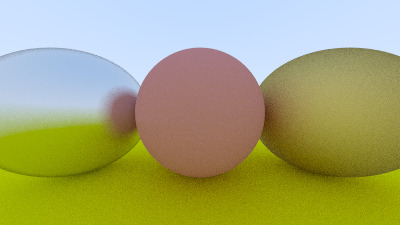
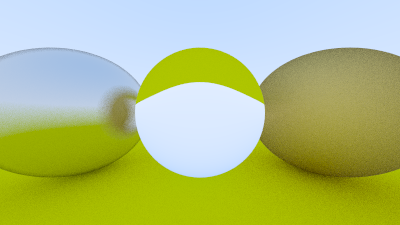
dielectrics

diff --git a/src/material.rs b/src/material.rs
@@ -72,12 +72,40 @@ impl Material for Metal {
             reflected + self.fuzz * Vec3::rand_unit(),
         );
         if Vec3::dot(&scattered.direction(), hit_result.normal()) < 0.0 {
-            return None
+            return None;
         }
 
         Some(ScatterResult {
             attenuation: self.albedo,
             scattered_ray: scattered,
+        })
+    }
+}
+
+pub struct Dielectric {
+    refraction_index: f64,
+}
+
+impl Dielectric {
+    pub fn new(refraction_index: f64) -> Self {
+        Dielectric { refraction_index }
+    }
+}
+
+impl Material for Dielectric {
+    fn scatter(&self, ray: &Ray, hit_result: &HitResult) -> Option<ScatterResult> {
+        let refraction_ratio = if hit_result.front_face() {
+            1.0 / self.refraction_index
+        } else {
+            self.refraction_index
+        };
+
+        let unit_dir = ray.direction().normalized();
+        let refracted  = Vec3::refract(&unit_dir, hit_result.normal(), refraction_ratio);
+
+        Some(ScatterResult {
+            attenuation: Color::white(),
+            scattered_ray: Ray::new(*hit_result.location(), refracted)
         })
     }
 }

diff --git a/src/main.rs b/src/main.rs
@@ -1,6 +1,5 @@
 use raytracing_in_one_weekend::{
-    color::Color, hittable_list::HittableList, material::Lambertian, material::Metal,
-    raytracer::Raytracer, sphere::Sphere, Point,
+    color::Color, hittable_list::HittableList, material::{Dielectric, Lambertian, Metal}, raytracer::Raytracer, sphere::Sphere, Point,
 };
 
 use std::rc::Rc;
@@ -10,7 +9,7 @@ fn main() {
     let mut world = HittableList::new();
 
     let ground_mat = Rc::new(Lambertian::new(Color::new(0.8, 0.8, 0.0)));
-    let center_mat = Rc::new(Lambertian::new(Color::new(0.7, 0.3, 0.3)));
+    let center_mat = Rc::new(Dielectric::new(1.5));
     let right_mat = Rc::new(Metal::new(Color::new(0.8, 0.8, 0.8), 0.3));
     let left_mat = Rc::new(Metal::new(Color::new(0.8, 0.6, 0.2), 1.0));
 

diff --git a/src/vec3.rs b/src/vec3.rs
@@ -136,6 +136,12 @@ impl Vec3 {
         *v - 2.0 * Vec3::dot(v, normal) * *normal
     }
 
+    pub fn refract(uv: &Vec3, normal: &Vec3, refraction_index: f64) -> Vec3 {
+        let cos_theta = f64::min(Vec3::dot(&(-*uv), normal), 1.0);
+        let r_out_perp = refraction_index * (*uv + *normal * cos_theta);
+        let r_out_parallel = - (1.0 - r_out_perp.len_squared()).abs().sqrt() * *normal;
+        r_out_perp + r_out_parallel
+    }
 }
 
 impl Neg for Vec3 {
